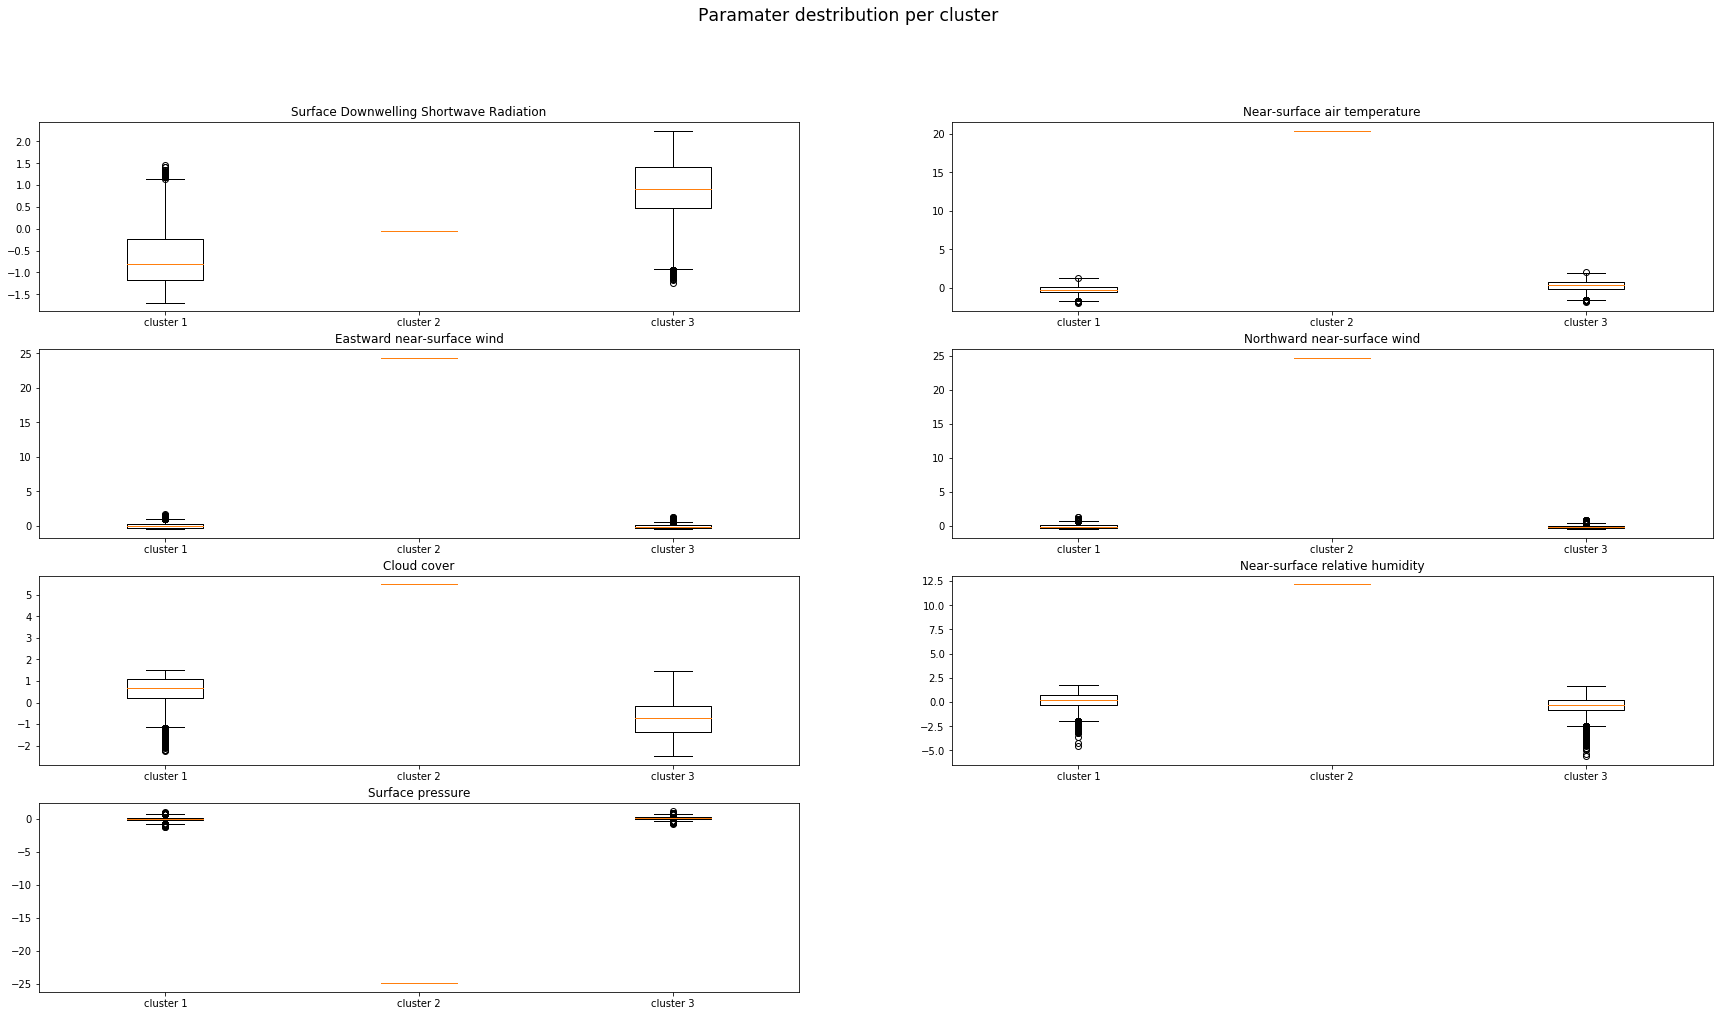
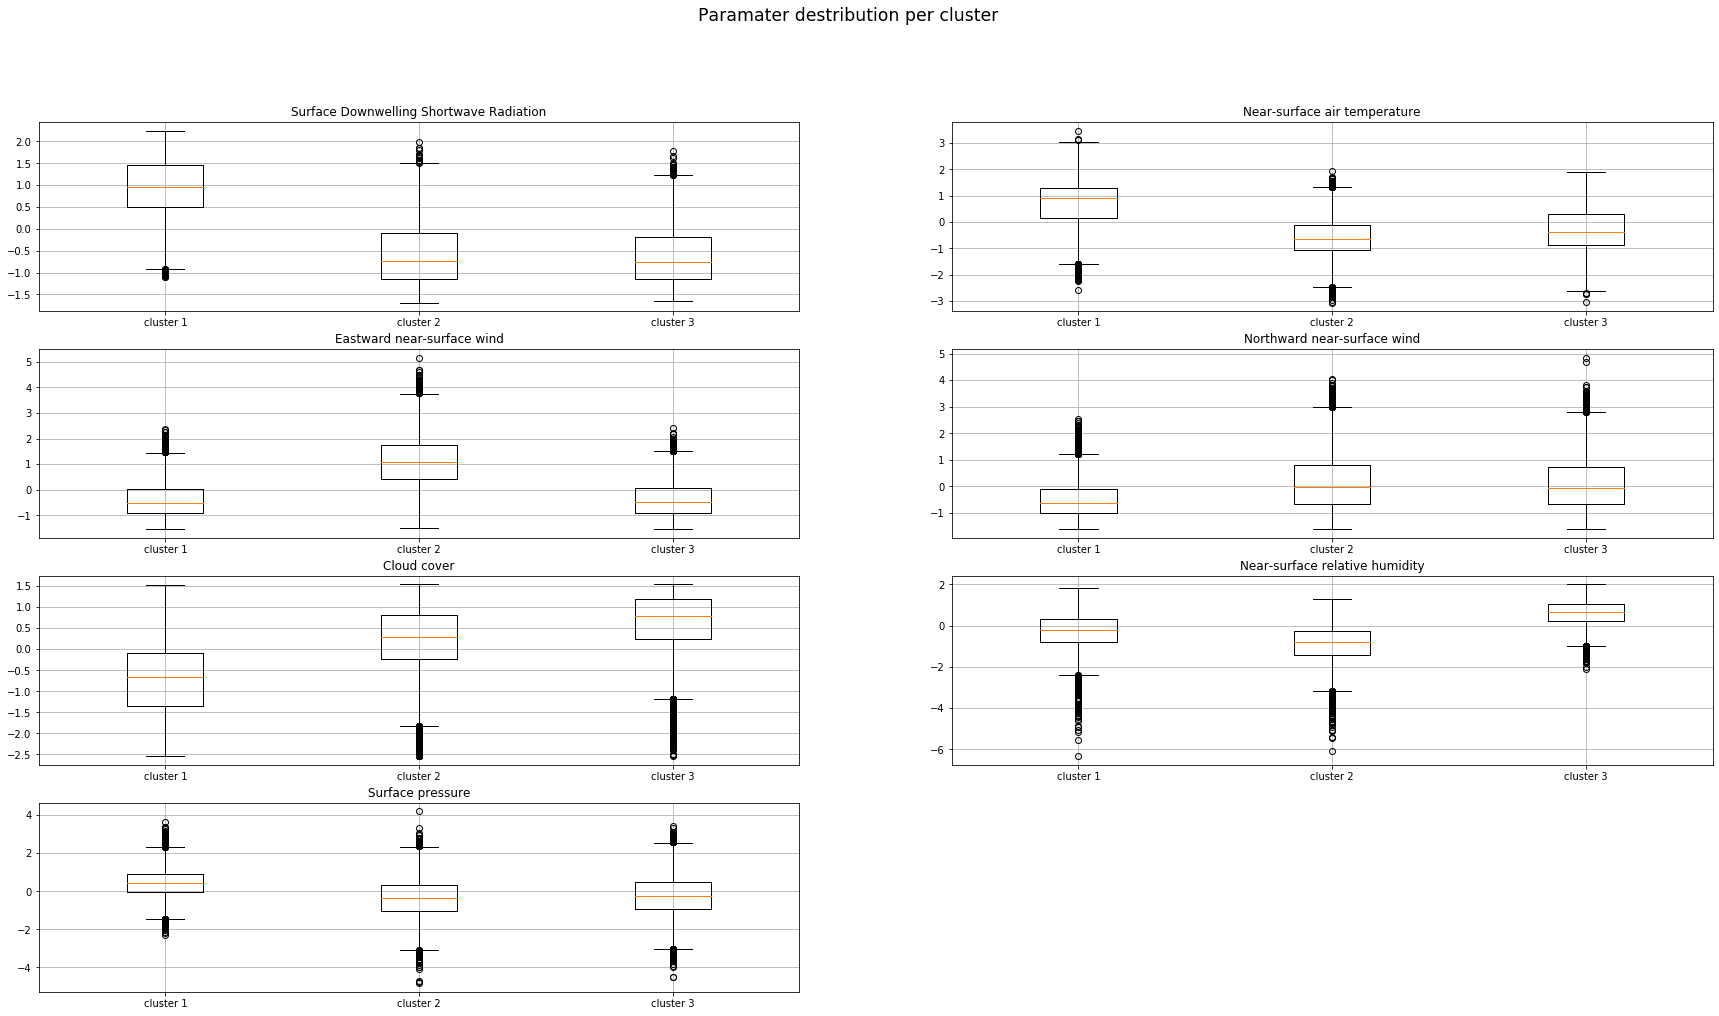
update

diff --git a/Clustering/Clustering_explvar.py b/Clustering/Clustering_explvar.py
@@ -31,7 +31,7 @@ def YearCounter(Labels,n_clusters):
 Data = np.load('../Datares/tensor_daily_mean_5D.npy')
 NanINDX = np.argwhere(np.isnan(Data))
 for i in range(len(NanINDX)):
-    Data[NanINDX[i]] = 200
+    Data[NanINDX[i][0],NanINDX[i][1],NanINDX[i][2],NanINDX[i][3],NanINDX[i][4]] = 200
 st = 0
 STATIONS = ['Marsdiep Noord','Doove Balg West',
                 'Vliestroom','Doove Balg Oost',
@@ -149,10 +149,10 @@ for var in range(7):
     M = []
     for cl in range(n_clusters):
         INDX = np.where(cluster_labels_array == cl)
-        new = Data[INDX,var,st, mdl, exp]
+        new = SubDataStation[INDX,var]
         M.append(new[0])
     ax.boxplot(M, labels = LAB)
+    plt.grid(True)
 fig.savefig('Clustering_exploring_variables_percluster.png', bbox_inches='tight')
-print(type(M))
 
 plt.show()
